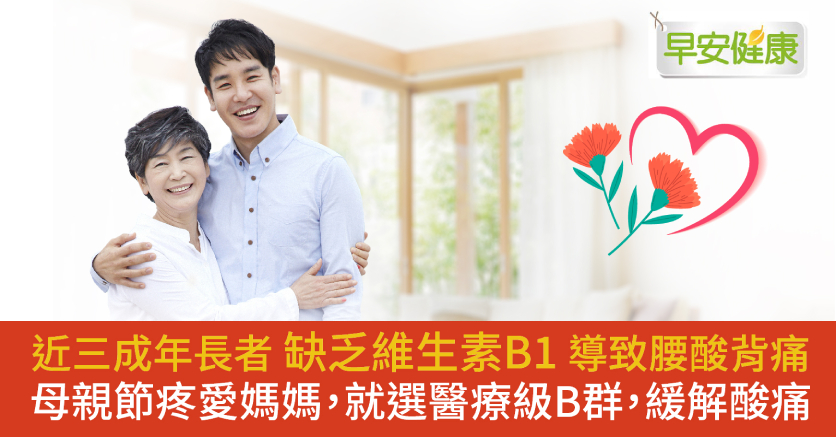
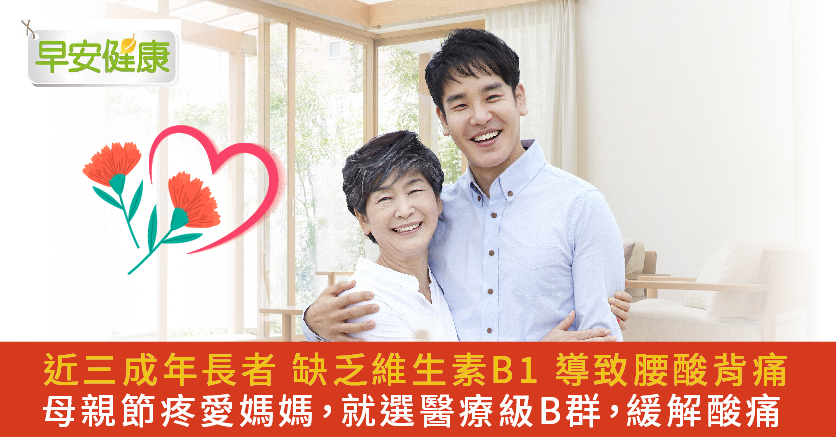
母親節宣傳頁文字修改 #2022-04-07

diff --git a/2022monsday.html b/2022monsday.html
@@ -155,24 +155,27 @@
                             <p>隨著年齡增長，媽媽是否越來越常抱怨腰酸背痛、肩頸僵硬，甚至反覆發作影響日常作息呢？這些症狀很可能都是維生素 B1 缺乏造成的！趁著母親節送上孝心，讓媽媽擺脫維生素B1不足造成的酸痛，快來看看如何選擇有效的B1補充方式。</p>
                         </section>
 
-                        <section g-page="2022cny_top" data-aos="fade-up" data-aos-duration="1000" data-aos-once="true" data-aos-delay="500">
-                            <h4>自日本含 TTFD<sup>**</sup>的醫藥級 B 群維持體內高濃度 B1<sup>***</sup>，有效緩解疲勞與酸痛</h4>
-                            <p>媽媽如果經常腰酸背痛，在排除疾病、退化等因素之後，可以優先考慮補充 B 群，維持體內維生素 B1 充足來改善酸痛問題。</p>
+                        <section g-page="2022monsday_top" data-aos="fade-up" data-aos-duration="1000" data-aos-once="true" data-aos-delay="500">
+                            <h4>維生素 B1 是細胞能量轉換的關鍵，但近三成<sup>*</sup> 年長者卻面臨 B1 缺乏或臨界缺乏的狀況</h4>
+                            <p>維生素 B1 可以把食物中的碳水化合物及蛋白質等營養素，轉化為能量、幫助代謝，在能量轉換過程中擔任重要的形成輔酶的角色，具備包含舒緩肌肉與神經疲勞等多種功用。但 B1 是水溶性的維生素，常會因為烹煮方式或個人吸收問題而攝取不足。</p>
+                            <p>同時隨著年紀增加，人體對維生素的吸收不如以往，更容易造成體內維生素 B1 不足。根據調查顯示，台灣 65 歲以上男性有 31% 處於維生素 B1 缺乏或是臨界缺乏，女性則有 29%。</p>
                         </section>
 
-                        <section g-page="2022cny_mid" data-aos="fade-up" data-aos-duration="1000" data-aos-once="true" data-aos-delay="500">
-                            <img src="images/blogs/pic_2022monsday.jpg" alt="*">
+                        <section g-page="2022monsday_mid" data-aos="fade-up" data-aos-duration="1000" data-aos-once="true" data-aos-delay="500">
+                            <h4>自日本含 TTFD<sup>**</sup>的醫藥級 B 群維持體內高濃度 B1<sup>***</sup>，有效緩解疲勞與酸痛</h4>
+                            <p>媽媽如果經常腰酸背痛，在排除疾病、退化等因素之後，可以優先考慮補充 B 群，維持體內維生素 B1 充足來改善酸痛問題。</p>
+                            <p>因為維生素 B1 為水溶性，容易在食物烹煮過程中流失，同時人體吸收不易，挑選 B 群補充劑時，選擇醫療級 B 群才能提高補充效率。像日本等醫藥先進的國家便針對維生素 B1 結構做出改進，其中最著名的就是含「維生素 B1 誘導體 TTFD」。</p>
+                            <p>水溶性的維生素 B1 如果沒有運輸蛋白（輸送載體），就無法通過脂質組成的小腸細胞膜；但是脂溶性的 TTFD 無需運輸蛋白，就能通過細胞膜進入人體或血液，更容易被人體腸道吸收，能長時間維持液中維生素 B1 高濃度，也更容易進入肌肉或神經組織、有效作用快速到達全身。且維生素 B1 誘導體 TTFD 能在人體內大量產生「活化型維生素 B1」，彌補維生素 B1 難被吸收的特點，從根源幫助身體紓解酸痛以及手腳發麻 。</p>
+                            <img class="pic_small" src="images/blogs/pic_2022monsday.jpg" alt="*">
+                        </section>
+
+                        <section g-page="2022monsday_down" data-aos="fade-up" data-aos-duration="1000" data-aos-once="true" data-aos-delay="500">
                             <h4>母親節送上含『TTFD』的醫療級B群，讓媽媽們擺脫B1不足造成的反覆酸痛</h4>
                             <p>每天服用維生素Ｂ群能有效緩解酸痛，且維生素 B 為水溶性，較不需要擔心有服用過量的問題。尤其是含有『維生素B1誘導體TTFD』的醫療級B群，更有效地補充體內缺乏的 B1，趁著母親節體貼媽媽平日的辛勞，送上醫療級B群，祝福媽媽擺脫酸痛、母親節快樂！</p>
                         </section>
 
-                        <!-- <section g-page="2022cny_down" data-aos="fade-up" data-aos-duration="1000" data-aos-once="true" data-aos-delay="500">
-                            <h4>過年送上含『TTFD』的醫療級B群，讓長輩們邁向不酸不麻的樂齡生活</h4>
-                            <p>每天服用維生素Ｂ群能有效緩解長輩們的酸痛、末梢發麻症狀，且維生素 B 為水溶性，較不需要擔心有服用過量的問題。尤其是含有『維生素B1誘導體TTFD』的醫療級B群，更有效地補充體內缺乏的 B1，趁著年節體貼父母平日的辛勞，送上醫療級B群，讓長輩們享受不酸不麻的健康人生！</p>
-                        </section> -->
-
                         <section id="page-note">
-                            <!-- <p>* 硫胺素缺乏：流行病學、病理生理學、臨床特徵，及實驗室檢查(陳國東,蘇世斌)</p> -->
+                            <p>* 硫胺素缺乏：流行病學、病理生理學、臨床特徵，及實驗室檢查(陳國東,蘇世斌)</p>
                             <p>** TTFD 即是 維生素B1誘導體（Fursultiamine）(Bio Clinica Vol.34 , No.14 , DEC 2019); <a href="https://pubchem.ncbi.nlm.nih.gov/compound/Fursultiamine#section=Depositor-Supplied-Synonyms" target="_blank" title="">https://pubchem.ncbi.nlm.nih.gov/compound/Fursultiamine#section=Depositor-Supplied-Synonyms</a></p>
                             <p>*** 維生素 B1 誘導體（TTFD, Fursultiamine）與維生素 B1（Thiamine）相比，顯示其可長時間維持組織間維生素 B1 的高濃度。(Bio Clinica Vol.34 , No.14 , DEC 2019)</p>
                         </section>

diff --git a/css/blogs.css b/css/blogs.css
@@ -93,6 +93,9 @@ section .content{
 	width: 95%;
 	margin: 0 auto 20px auto;
 }
+.blogBox .container .pic_small{
+	width: 75%;
+}
 
 .blogBox .container > section{
 	margin-bottom: 30px;
@@ -437,5 +440,8 @@ sub{
 		background: url(../images/blogs/btn_flatdown-02.png);
 		background-size: contain;
 		background-repeat: no-repeat;
+	}
+	.blogBox .container .pic_small{
+		width: 90%;
 	}
 }
